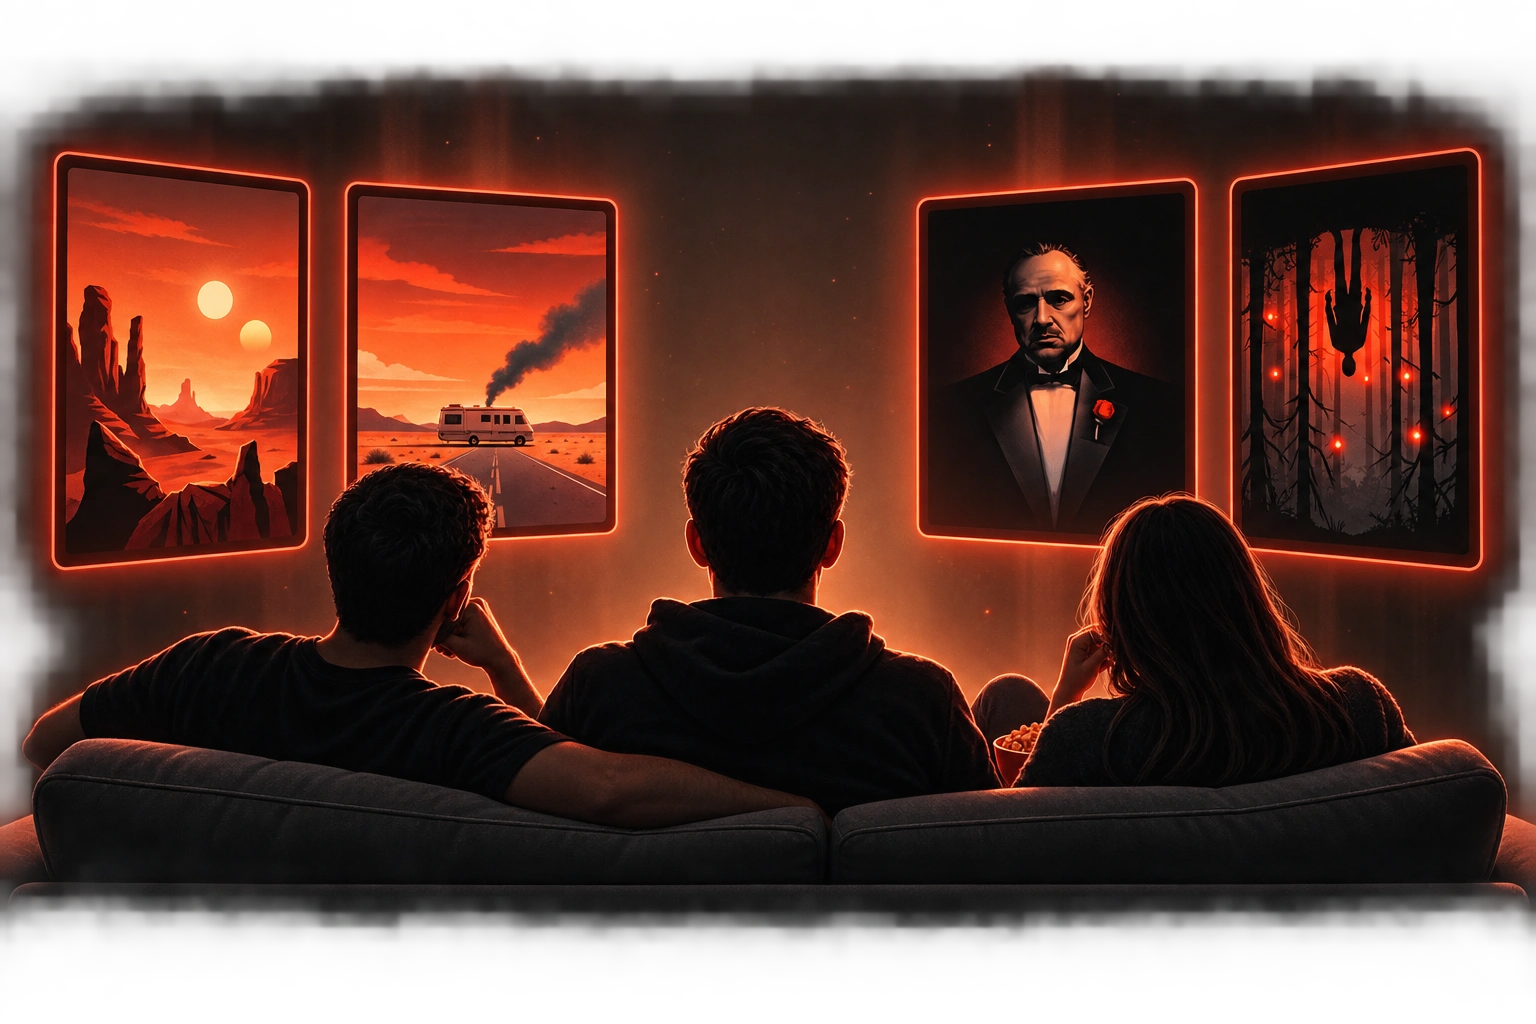
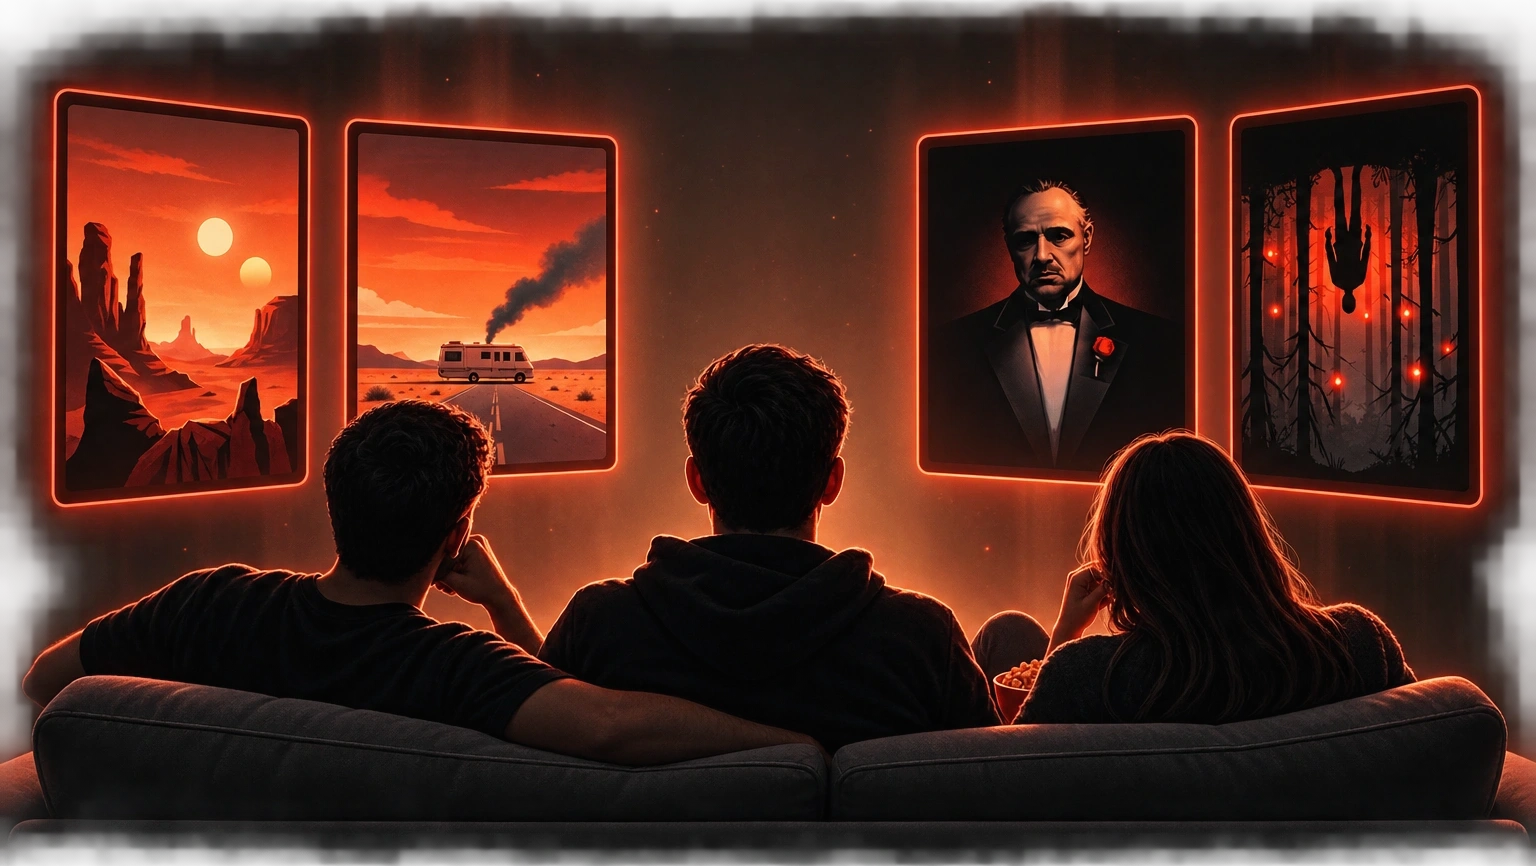
Fixed hero image, removed light

diff --git a/src/pages/home/Home.scss b/src/pages/home/Home.scss
@@ -19,89 +19,38 @@
   &__hero {
     position: absolute;
     width: 100vw;
-    height: 97vh;
-    max-height: 97vh;
+    height: 100vh;
+    max-height: 100vh;
     top: 0;
     left: 0;
     right: 0;
     display: flex;
     flex-direction: column;
     align-items: center;
+    gap: 30px;
     @include mx.max-w(768px) {
       height: 350px;
       max-height: 350px;
     }
 
-    // Small consistency tweak only: the hero now melts into the page
-    // background instead of ending on a hard edge.
-    &::after {
-      content: "";
-      position: absolute;
-      left: 0;
-      right: 0;
-      bottom: 0;
-      height: 32vh;
-      pointer-events: none;
-      // background: linear-gradient(
-      //   180deg,
-      //   transparent 0%,
-      //   rgba(10, 9, 9, 0.75) 65%,
-      //   #0a0909 100%
-      // );
-
-      @include mx.light {
-        background: linear-gradient(
-          180deg,
-          transparent 0%,
-          color.adjust(light.$color-bg, $alpha: -0.3) 65%,
-          light.$color-bg 100%
-        );
-      }
-
-      @include mx.max-w(768px) {
-        height: 120px;
-      }
-    }
-
     > .img {
-      height: 100%;
+      height: 86vh;
       width: 100%;
 
+      @include mx.max-w(768px) {
+        height: 285px;
+        max-height: 285px;
+      }
+
       > img {
-        position: absolute;
-        top: 0;
         width: 100%;
+        height: 100%;
         object-fit: cover;
         transition: opacity ease 300ms !important;
 
         @include mx.max-w(768px) {
           top: 50px;
         }
-
-        &.light {
-          opacity: 0;
-          height: 86vh;
-
-          @include mx.max-w(768px) {
-            height: 285px;
-            max-height: 285px;
-          }
-        }
-
-        &.dark {
-          @include mx.max-w(768px) {
-            height: 285px;
-            max-height: 285px;
-          }
-        }
-      }
-    }
-    &--light {
-      > .img > img.light {
-        opacity: 1;
-      }
-      > .img > img.dark {
-        opacity: 0;
       }
     }
 

diff --git a/src/pages/home/Home.tsx b/src/pages/home/Home.tsx
@@ -32,11 +32,11 @@ const Home = () => {
 
         <div className={clsx("home-page__hero", isLight && "home-page__hero--light")}>
           <div className="img">
-            <img
+            {/* <img
               src="/homepage/lightheroimg.webp"
               className='light'
               alt=""
-            />
+            /> */}
             <img
               src="/homepage/heroimg.webp"
               className='dark'

diff --git a/src/pages/home/ambience/CinemaAmbience.scss b/src/pages/home/ambience/CinemaAmbience.scss
@@ -5,7 +5,7 @@
 .cinema-ambience {
   position: fixed;
   inset: 0;
-  z-index: 0;
+  z-index: 1;
   pointer-events: none;
   overflow: hidden;
   contain: strict;
